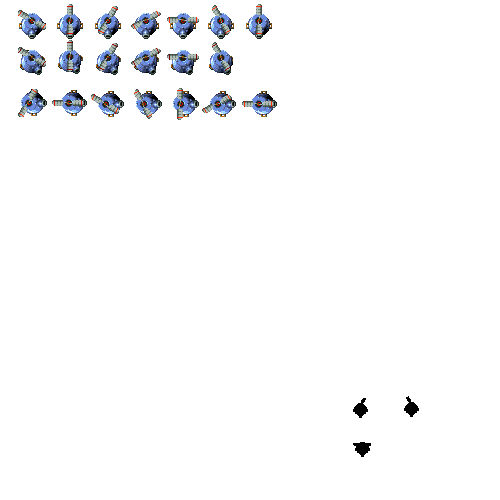
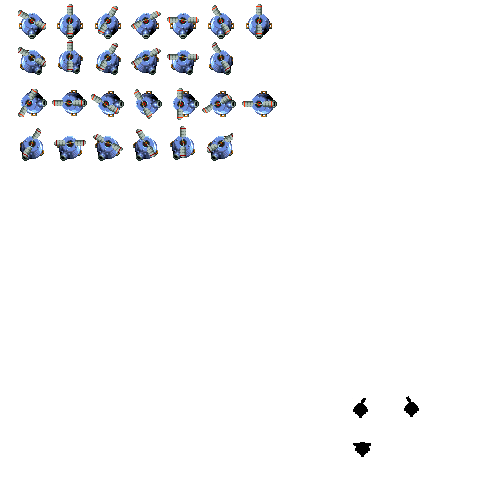
Drons blaus disparant, direccions drones no fetes (path a lo cutre) :-1:

Changed region(s): [[0.03, 0.24, 0.24, 0.33], [0.27, 0.24, 0.39, 0.33], [0.42, 0.27, 0.48, 0.33]]

diff --git a/GunBird - CodedDreams/Enemy_Drone.cpp b/GunBird - CodedDreams/Enemy_Drone.cpp
@@ -3,6 +3,7 @@
 #include "ModuleTextures.h"
 #include "ModuleCollision.h"
 #include "p2Point.h"
+#include "ModuleRender.h"
 
 Enemy_Drone::Enemy_Drone(int x, int y, int wave, int id) : Enemy(x, y)
 {
@@ -12,16 +13,38 @@ Enemy_Drone::Enemy_Drone(int x, int y, int wave, int id) : Enemy(x, y)
 	WhiteSprite = App->textures->Load("assets/enemies/hitten/hitten_white_drone.png");
 	
 
-	//Wave1
-	dronewave.PushBack({ 12, 37, 38, 38 });
-	dronewave.PushBack({ 59, 39, 38, 38 });
-	dronewave.PushBack({ 107, 40, 38, 38 });
-	dronewave.PushBack({ 164, 39, 38, 38 });
-	dronewave.PushBack({ 56, 90, 38, 38 });
-	dronewave.PushBack({ 108, 91, 38, 38 });
-	dronewave.PushBack({ 164, 92, 38, 38 });
-	dronewave.speed = 1.0f;
-	dronewave.loop = true;
+	//Looking Down
+	Looking_down.PushBack({ 14, 4, 35, 35 });
+	Looking_down.PushBack({ 52, 4, 35, 35 });
+	Looking_down.PushBack({ 91, 4, 35, 35 });
+	Looking_down.PushBack({ 128, 4, 35, 35 });
+	Looking_down.PushBack({ 166, 4, 35, 35 });
+	Looking_down.PushBack({ 203, 4, 35, 35 });
+	Looking_down.speed = 1.0f;
+	Looking_down.loop = true;
+
+	//Looking Right
+	Looking_right.PushBack({ 14, 40, 35, 35 });
+	Looking_right.PushBack({ 52, 40, 35, 35 });
+	Looking_right.PushBack({ 91, 40, 35, 35 });
+	Looking_right.PushBack({ 128, 40, 35, 35 });
+	Looking_right.PushBack({ 166, 40, 35, 35 });
+	Looking_right.PushBack({ 203, 40, 35, 35 });
+	
+	Looking_right.speed = 1.0f;
+	Looking_right.loop = true;
+
+
+	//Totally_right
+	Totally_right.PushBack({ 14, 86, 35, 35 });
+	Totally_right.PushBack({ 52, 86, 35, 35 });
+	Totally_right.PushBack({ 91, 86, 35, 35 });
+	Totally_right.PushBack({ 128, 86, 35, 35 });
+	Totally_right.PushBack({ 166, 86, 35, 35 });
+	Totally_right.PushBack({ 203, 86, 35, 35 });
+
+	Totally_right.speed = 1.0f;
+	Totally_right.loop = true;
 
 	//Death
 	//Chavales es la medium explosion sencera, si algu la vol aqui esta guapas
@@ -48,48 +71,51 @@ Enemy_Drone::Enemy_Drone(int x, int y, int wave, int id) : Enemy(x, y)
 
 	if (wave == 1 && id==1)
 	{
-		path.PushBack({ 0.0f, 0.2f }, 150, &dronewave);
-		path.PushBack({ 1.0f, 0.0f }, 60, &dronewave); //Si esta quiet en un punt ha de tenir velocitat y = 0.2 per moures a la mateixa velocitat que l'overlay
-		path.PushBack({ 0.0f, 0.2f }, 100, &dronewave);
-		path.PushBack({ 0.5f, 1.5f }, 1000, &dronewave);
+		path.PushBack({ 0.0f, 0.2f }, 150, &Looking_down);
+		path.PushBack({ 1.0f, 0.0f }, 60, &Looking_down); //Si esta quiet en un punt ha de tenir velocitat y = 0.2 per moures a la mateixa velocitat que l'overlay
+		path.PushBack({ 0.0f, 0.2f }, 50, &Looking_down);
+		path.PushBack({ 0.0f, 0.2f }, 50, &Looking_right);
+		path.PushBack({ 0.5f, 1.5f }, 70, &Looking_right);
+		path.PushBack({ 0.5f, 1.5f }, 1000, &Totally_right);
 	
 	}
 	else if (wave==1 && id == 2) {
-		path.PushBack({ 0.0f, 0.2f }, 217, &dronewave);
-		path.PushBack({ 1.0f, 0.0f }, 60, &dronewave);
-		path.PushBack({ 0.0f, 0.2f }, 100, &dronewave);
-		path.PushBack({ 0.5f, 1.5f }, 1000, &dronewave);
+		path.PushBack({ 0.0f, 0.2f }, 217, &Looking_down);
+		path.PushBack({ 1.0f, 0.0f }, 60, &Looking_down);
+		path.PushBack({ 0.0f, 0.2f }, 50, &Looking_down);
+		path.PushBack({ 0.0f, 0.2f }, 50, &Looking_right);
+		path.PushBack({ 0.5f, 1.5f }, 1000, &Looking_right);
 	}
 	//Wave2 Path
 	else if (wave == 2 && id==1)
 	{
-		path.PushBack({ 0.0f, 0.0f }, 50, &dronewave);
-		path.PushBack({ 0.0f, 2.0f }, 70, &dronewave); //Si esta quiet en un punt ha de tenir velocitat y = 0.2 per moures a la mateixa velocitat que l'overlay
-		path.PushBack({ 0.0f, 0.2f }, 15, &dronewave);
-		path.PushBack({ 0.0f, -2.0f }, 1000, &dronewave);
+		path.PushBack({ 0.0f, 0.0f }, 50, &Looking_down);
+		path.PushBack({ 0.0f, 2.0f }, 70, &Looking_down); //Si esta quiet en un punt ha de tenir velocitat y = 0.2 per moures a la mateixa velocitat que l'overlay
+		path.PushBack({ 0.0f, 0.2f }, 15, &Looking_down);
+		path.PushBack({ 0.0f, -2.0f }, 1000, &Looking_down);
 	}
 	else if (wave == 2 && id == 2)
 	{
-		path.PushBack({ 0.0f, 0.0f }, 50, &dronewave);
-		path.PushBack({ 0.0f, 0.0f }, 98, &dronewave);
-		path.PushBack({ 0.0f, 2.0f }, 70, &dronewave); //Si esta quiet en un punt ha de tenir velocitat y = 0.2 per moures a la mateixa velocitat que l'overlay
-		path.PushBack({ 0.0f, 0.2f }, 15, &dronewave);
-		path.PushBack({ 0.0f, -2.0f }, 1000, &dronewave);
+		path.PushBack({ 0.0f, 0.0f }, 50, &Looking_down);
+		path.PushBack({ 0.0f, 0.0f }, 98, &Looking_down);
+		path.PushBack({ 0.0f, 2.0f }, 70, &Looking_down); //Si esta quiet en un punt ha de tenir velocitat y = 0.2 per moures a la mateixa velocitat que l'overlay
+		path.PushBack({ 0.0f, 0.2f }, 15, &Looking_down);
+		path.PushBack({ 0.0f, -2.0f }, 1000, &Looking_down);
 	}
 	//Wave3 Path
 	else if (wave == 3 && id == 1)
 	{
-		path.PushBack({ 0.0f, 0.0f }, 200, &dronewave);
-		path.PushBack({ -1.0f, 0.0f }, 100, &dronewave); //Si esta quiet en un punt ha de tenir velocitat y = 0.2 per moures a la mateixa velocitat que l'overlay
-		path.PushBack({ 0.0f, 0.0f }, 100, &dronewave);
-		path.PushBack({ -0.5f, 1.5f }, 1000, &dronewave);
+		path.PushBack({ 0.0f, 0.0f }, 200, &Looking_down);
+		path.PushBack({ -1.0f, 0.0f }, 100, &Looking_down); //Si esta quiet en un punt ha de tenir velocitat y = 0.2 per moures a la mateixa velocitat que l'overlay
+		path.PushBack({ 0.0f, 0.0f }, 100, &Looking_down);
+		path.PushBack({ -0.5f, 1.5f }, 1000, &Looking_down);
 
 	}
 	else if (wave == 3 && id == 2) {
-		path.PushBack({ 0.0f, 0.0f }, 300, &dronewave);
-		path.PushBack({ -1.0f, 0.0f }, 100, &dronewave);
-		path.PushBack({ 0.0f, 0.0f }, 100, &dronewave);
-		path.PushBack({ -0.5f, 1.5f }, 1000, &dronewave);
+		path.PushBack({ 0.0f, 0.0f }, 300, &Looking_down);
+		path.PushBack({ -1.0f, 0.0f }, 100, &Looking_down);
+		path.PushBack({ 0.0f, 0.0f }, 100, &Looking_down);
+		path.PushBack({ -0.5f, 1.5f }, 1000, &Looking_down);
 	}
 	
 	//Set lives, initial_hp, points adn extra_anim
@@ -99,6 +125,12 @@ Enemy_Drone::Enemy_Drone(int x, int y, int wave, int id) : Enemy(x, y)
 	extra_anim = false;
 	explosion_type = SMALL1;
 
+	//Shooting
+
+	shoot = particle_type::P_BIG_SHOT;
+	big_shoot = &App->particles->big_shot_particle;
+	Shot_Start_time = (Uint32)(3333.3f);
+	Shot_Total_time = (Uint32)(2000.0f);
 
 	//Add and save collider
 	collider = App->collision->AddCollider({ x, y, 35, 35 }, COLLIDER_AIR_ENEMY, (Module*)App->enemies);
@@ -111,6 +143,16 @@ Enemy_Drone::~Enemy_Drone()
 void Enemy_Drone::Move()
 {
 	position = original_pos + path.GetCurrentPosition(&animation);
+
+	Shot_now = SDL_GetTicks() - Shot_Start_time;
+	if (animation == &Looking_right )
+	{
+		if (Shot_now > Shot_Total_time)
+		{
+			Shot_Start_time = SDL_GetTicks();
+			App->particles->AddParticle(App->particles->small_shot_particle, particle_type::P_SMALL_SHOT, position.x + 18, position.y + App->render->camera.y + 40, COLLIDER_ENEMY_SHOT, 0, 0);
+		}
+	}
 }
 
 

diff --git a/GunBird - CodedDreams/Enemy_Drone.h b/GunBird - CodedDreams/Enemy_Drone.h
@@ -3,6 +3,7 @@
 
 #include "Enemy.h"
 #include "Path.h"
+#include "ModuleParticles.h"
 
 class Enemy_Drone : public Enemy
 {
@@ -16,8 +17,15 @@ public:
 public:
 
 	Path path;
-	Animation dronewave;
+	Animation Looking_down;
+	Animation Looking_right;
+	Animation Totally_right;
 	Animation dead;
+
+
+	char* shot_path;
+	particle_type shoot;
+	Particle* big_shoot;
 
 };
 
